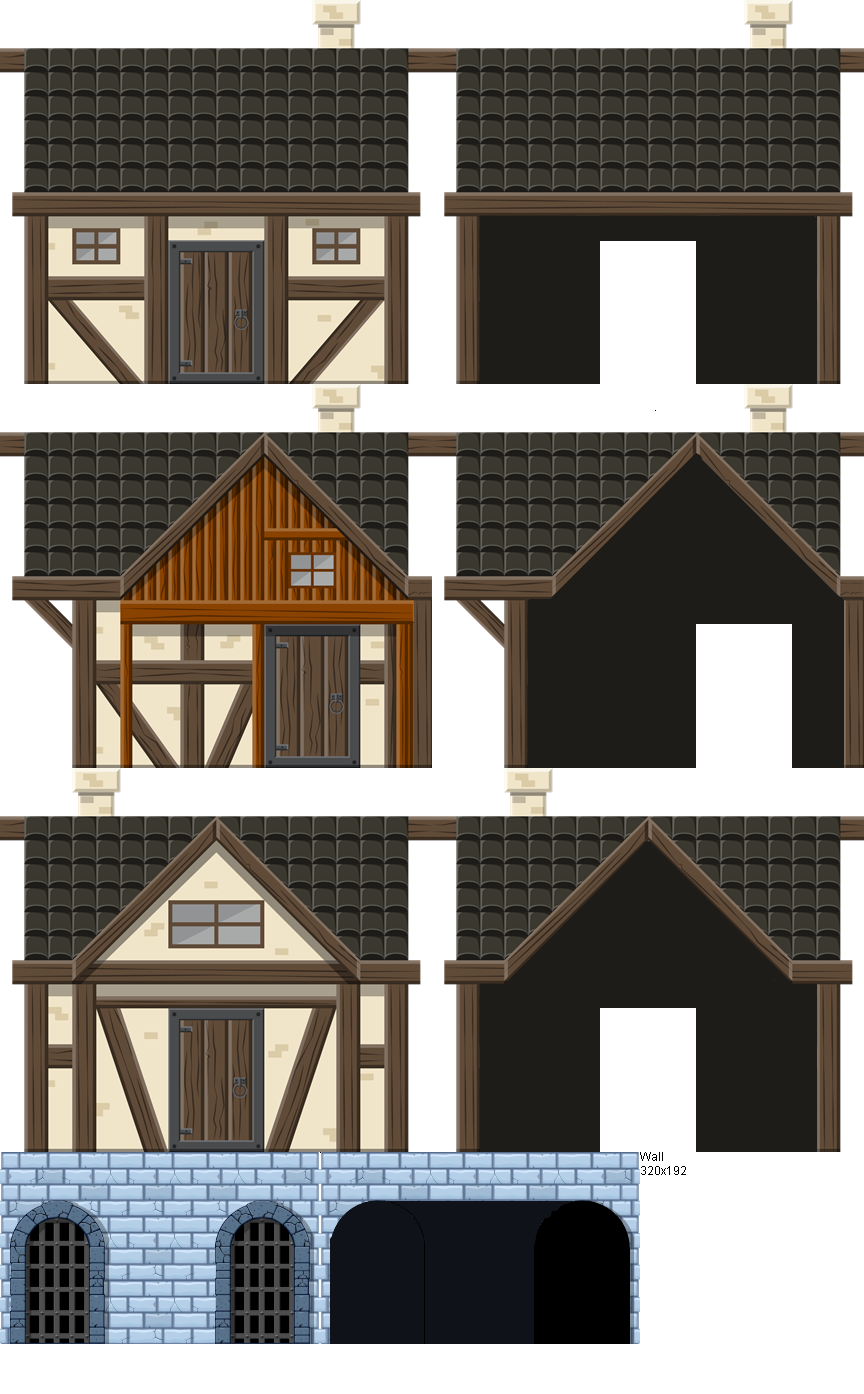
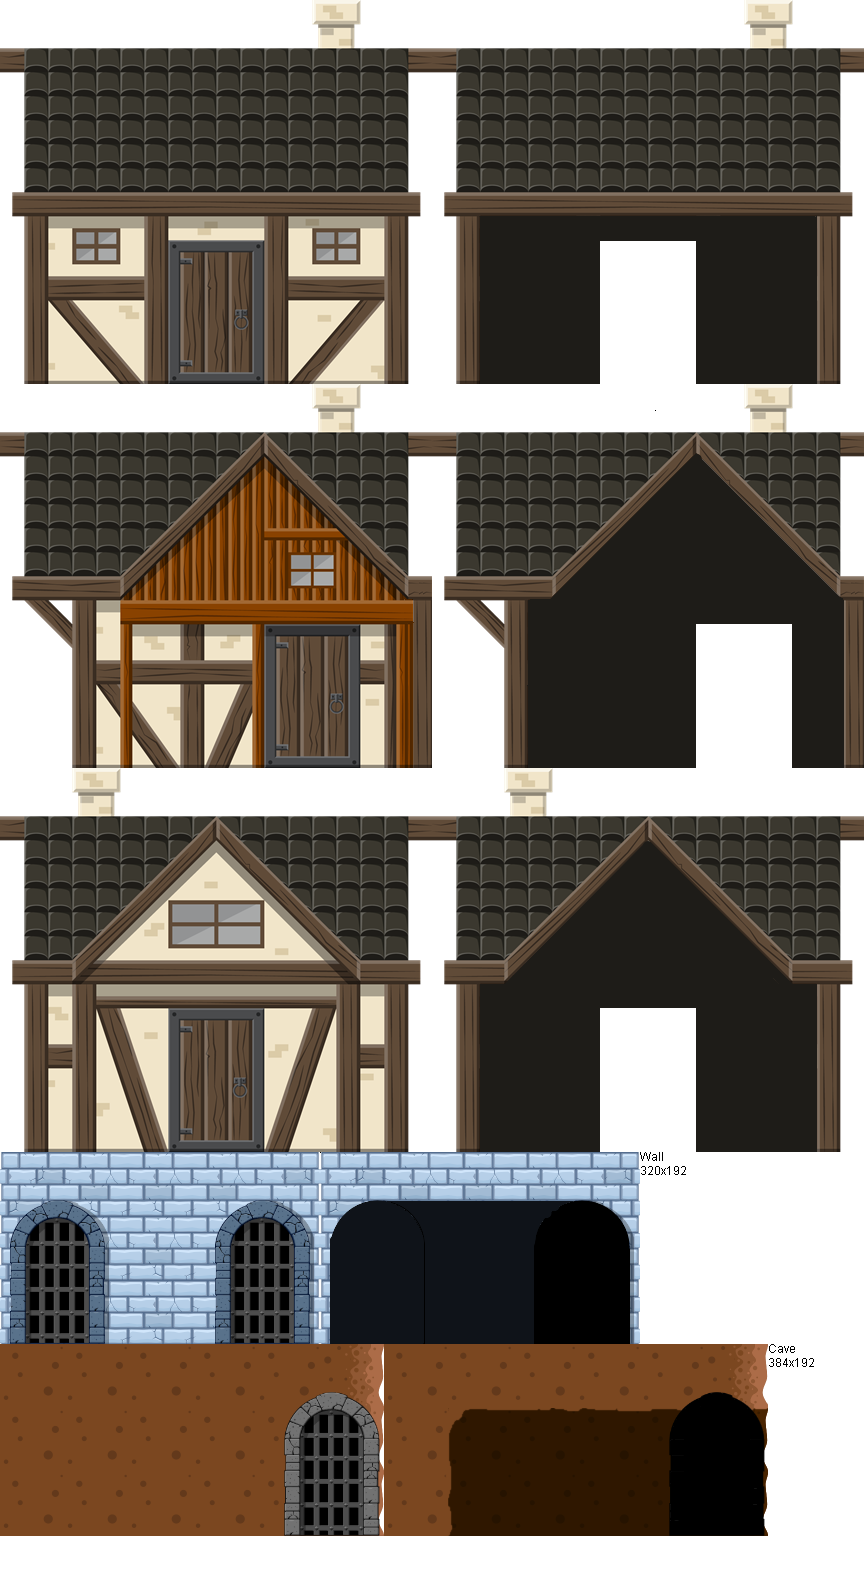
Added cave (not working yet)

diff --git a/www/js/src/houses.js b/www/js/src/houses.js
@@ -36,6 +36,7 @@
 
   createDoor("house-door", [6, 7, 8, 9, 10]);
   createDoor("wall-door", [0, 1, 2, 3, 4, 5]);
+  createDoor("cave-door", [12, 13, 14, 16, 17, 18]);
 
 
   // Houses
@@ -252,6 +253,18 @@
     {name: "barrier", x: 320, y: 150},
     {name: "barrier1x2", x: 390, y: 256}
   ]);
+  createHouse("h-cave", 2, {
+    door: "cave-door",
+    doorX: 284,
+    doorY: 48
+  }, [
+    {name: "a-crate-coin", x: 60, y: 128},
+    {name: "barrier1x2", x: 0, y: 64},
+    {name: "barrier2x1", x: 64, y: 0},
+    {name: "barrier2x1", x: 192, y: 0},
+    {name: "barrier", x: 320, y: 0}
+  ]);
+
 
   var Wall = createHouse("h-wall", 0, {
     spriteSheet: "wall",

diff --git a/www/js/src/main.js b/www/js/src/main.js
@@ -60,6 +60,15 @@ $(window).on("load", function() {
         tileColumns: 2,
         tileRows: 1
       }, {
+        id: "cave",
+        img: "#houses",
+        x: 0,
+        y: 1394,
+        tileWidth: 384,
+        tileHeight: 192,
+        tileColumns: 2,
+        tileRows: 1
+      }, {
         id: "artifacts",
         img: "#artifacts",
         x: 0,
